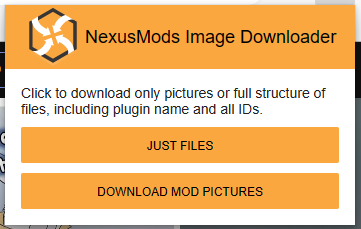
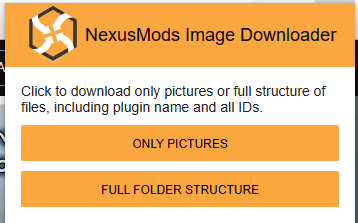
minor tweaks

diff --git a/nmid/sw.js b/nmid/sw.js
@@ -23,9 +23,9 @@ function handleDownload(list, index, image_path) {
     let filename = url.substr(url.lastIndexOf("/") + 1);
     let filepath = `Nexus Image Downloader`;
     if (image_path) {
-        filepath = `Nexus Image Downloader/${filename}`;
+        filepath = `NMID/${filename}`;
     } else {
-        filepath = `Nexus Image Downloader/${gameName}_${gameId}/${modId}_${modName}/${filename}`;
+        filepath = `NMID/${gameName}_${gameId}/${modId}_${modName}/${filename}`;
     }
     chrome.downloads.download({
             url: url,

diff --git a/nmid/popup/popup.html b/nmid/popup/popup.html
@@ -12,8 +12,8 @@
 
 <div class="container">
 	<div class="about">Click to download only pictures or full structure of files, including plugin name and all IDs.</div>
-	<button class="files-only">Just files</button>
-	<button class="full-path">Download Mod Pictures</button>
+	<button class="files-only">Only pictures</button>
+	<button class="full-path">Full folder structure</button>
 </div>
 
 <script src="popup.js"></script>

diff --git a/README.md b/README.md
@@ -14,6 +14,11 @@ Follow the steps below to install the extension:
 - Click the "Load unpacked" button and select the proper folder.
 - The extension should now be installed and ready to use.
 
+### Usage
+
+- Clicking "Only pictures" will save the images to the `../NMID/` folder.
+- Clicking "Full folder structure" will save the images according to their respective game and mod name in the `NMID\GAMENAME_ID\ID_MODNAME` folder structure.
+
 ### Credits
 - NMID is a separate version/fork of the [nexus-mod-image-downloader](https://github.com/lazytwinkletoes/nexus-mod-image-downloader) with additional functionality and an extra button for downloading images. 
 - The NexusMods icon used in the extension was sourced [from PngEgg](https://www.pngegg.com/en/png-ibdop).
